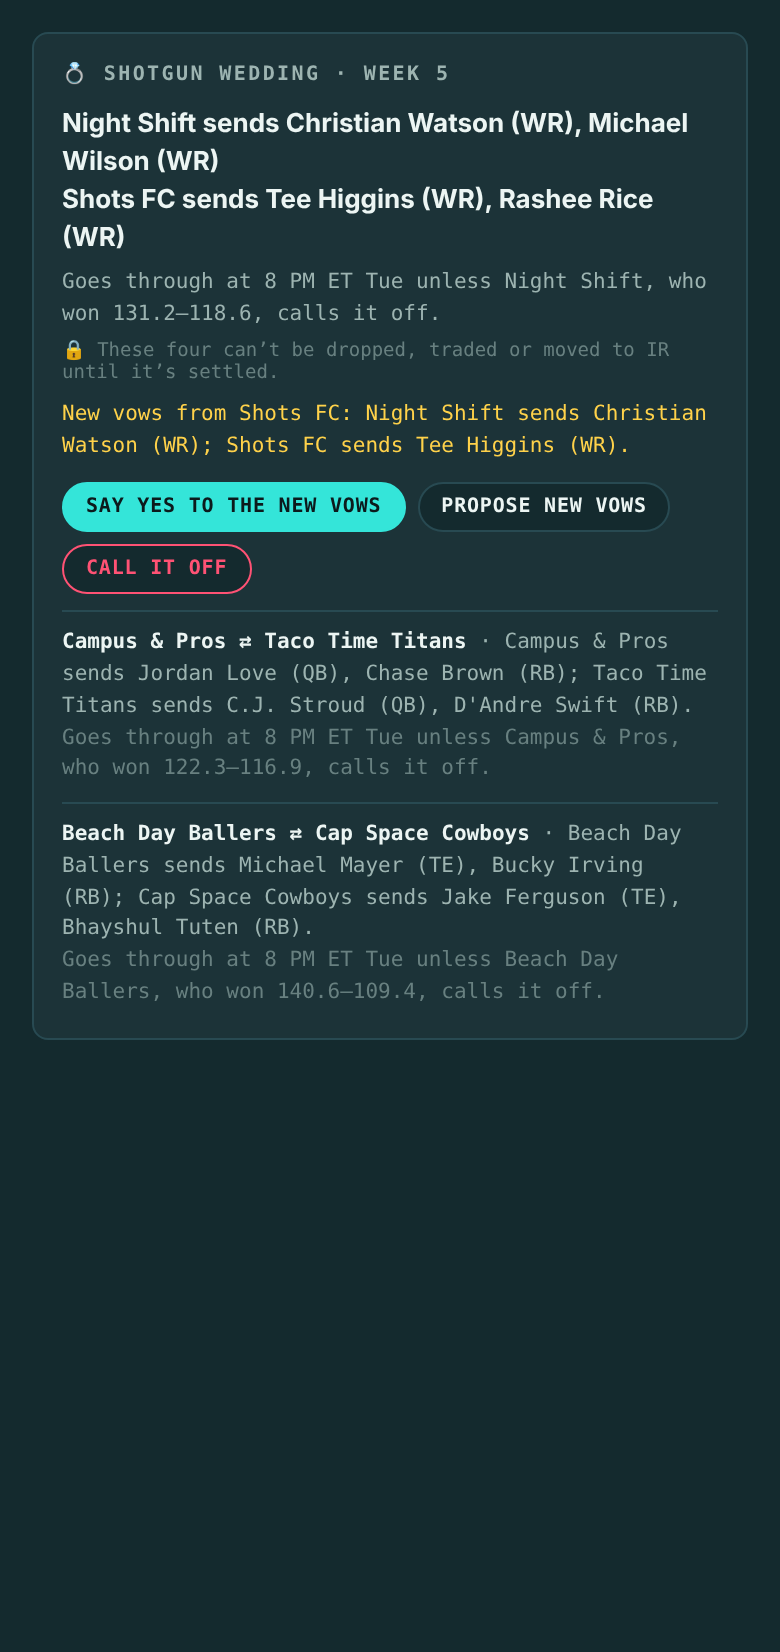
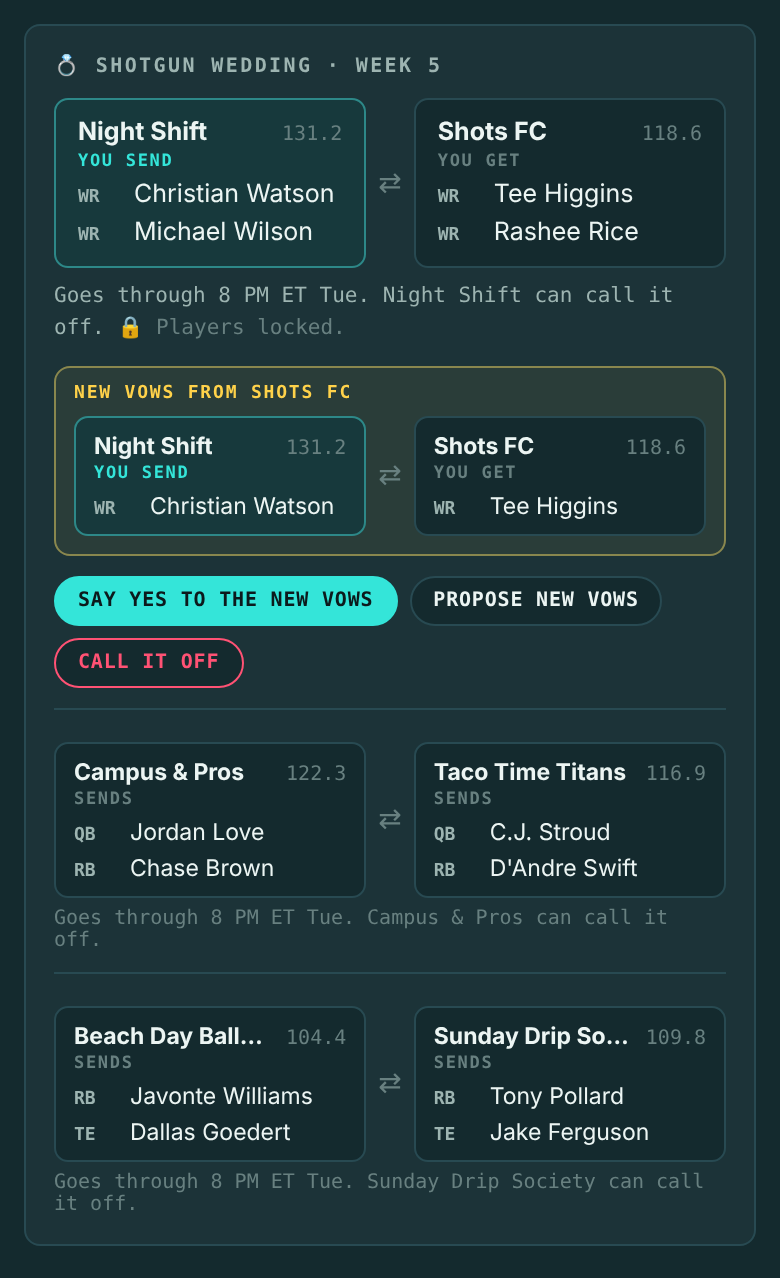
v0.656.6: the roster builder fits a phone; the front page's pictures catch up (#1182)
* v0.656.6: the front page shows the new Shotgun Wedding trade box

Reshot public/brand/funnel/mode-shotgun.png from the current card (fixture
data, mark-free); the version bump busts the cached image.

Claude-Session: https://claude.ai/code/session_016CCQxv6Dhk2rrkPAiCqMgj

* v0.656.6: the roster builder lines up and fits a phone

The spot row is a CSS grid: one line on wide screens, two on phones, so the
columns line up on every row and nothing runs off the edge. The front
page's roster-builder screenshot is reshot from it.

Claude-Session: https://claude.ai/code/session_016CCQxv6Dhk2rrkPAiCqMgj

---------

diff --git a/src/screens/CommishDash.tsx b/src/screens/CommishDash.tsx
@@ -73,10 +73,10 @@ function PosMultiSelect({ options, value, onChange, disabled, chip }: {
   const toggle = (p: string) => onChange(value.includes(p) ? ordered.filter((q) => q !== p) : options.filter((q) => q === p || value.includes(q)));
   return (
     // ONE WIDTH FOR EVERY ROW (v0.656.4, founder: "have all the form columns
-    // align in the roster builder"): the button no longer grows with its
-    // text, so the name, BB, ⛳ and 🔎 columns line up down the list. A long
+    // align in the roster builder"): the button fills its grid column (the
+    // row's .spot-row grid sets it) rather than growing with its text. A long
     // set ellipses; the tooltip and the open list carry all of it.
-    <div ref={ref} style={{ position: 'relative', flex: '0 0 150px', width: 150 }}>
+    <div ref={ref} className="sr-pos" style={{ position: 'relative', minWidth: 0 }}>
       <button type="button" disabled={disabled} onClick={() => setOpen((o) => !o)} className="mono"
         title={`${ordered.length ? ordered.join(' · ') : 'no positions yet'} — click to change`}
         style={{ fontSize: 11, fontWeight: 700, letterSpacing: '0.04em', borderRadius: RADIUS, padding: '3px 8px', cursor: 'pointer', whiteSpace: 'nowrap',
@@ -909,8 +909,8 @@ export function LeagueSettings({ leagueId, view }: { leagueId: string; view: 'mo
           </div>
           <div style={{ display: 'flex', flexDirection: 'column', gap: 5, marginTop: 6 }}>
             {spots.map((sp, i) => (
-              <div key={i} data-spot={i}
-                style={{ display: 'flex', alignItems: 'center', gap: 6, flexWrap: fltOpen === i ? 'wrap' : 'nowrap', border: `1px solid ${drag === i ? 'var(--you)' : 'var(--bd)'}`, borderRadius: RADIUS, padding: '5px 8px', opacity: drag === i ? 0.55 : 1, background: drag === i ? 'var(--bg)' : undefined }}>
+              <div key={i} data-spot={i} className="spot-row"
+                style={{ border: `1px solid ${drag === i ? 'var(--you)' : 'var(--bd)'}`, borderRadius: RADIUS, padding: '5px 8px', opacity: drag === i ? 0.55 : 1, background: drag === i ? 'var(--bg)' : undefined }}>
                 {/* DRAG HANDLE, ON POINTER EVENTS (v0.297.1). It was HTML5 drag
                     — `draggable` + dragstart/drop — which a touch screen never
                     fires: the finger scrolled the page instead, and once the
@@ -943,53 +943,53 @@ export function LeagueSettings({ leagueId, view }: { leagueId: string; view: 'mo
                     if (e.key === 'ArrowUp') { e.preventDefault(); moveSpot(i, i - 1); }
                     if (e.key === 'ArrowDown') { e.preventDefault(); moveSpot(i, i + 1); }
                   }}
-                  className="mono" aria-label={`reorder spot ${i + 1}`}
+                  className="mono sr-grip" aria-label={`reorder spot ${i + 1}`}
                   style={{ background: 'none', border: 'none', color: drag === i ? 'var(--you)' : 'var(--faint)', cursor: busy ? 'default' : 'grab', fontSize: 15, padding: '2px 4px', lineHeight: 1, touchAction: 'none' }}>⠿</button>
-                <span className="mono" style={{ fontSize: 11, fontWeight: 700, color: 'var(--dim)', width: 22 }}>{i + 1}</span>
+                <span className="mono sr-num" style={{ fontSize: 11, fontWeight: 700, color: 'var(--dim)' }}>{i + 1}</span>
                 {/* ONE DROPDOWN, NOT A ROW OF CHIPS (v0.554.0, founder: "change the
                     position selection in roster construction so that it stays on
                     one line"): the header names what the spot accepts; the list
                     underneath ticks positions on and off. */}
                 <PosMultiSelect options={builderPos} value={sp.pos} disabled={busy} chip={posChip}
                   onChange={(pos) => { setSpots((cur) => cur!.map((x, j) => j !== i ? x : { ...x, pos })); setSpotsDirty(true); }} />
-                <input value={sp.label}
+                <input className="mono sr-label" value={sp.label}
                   onChange={(e) => { setSpots((cur) => cur!.map((x, j) => j !== i ? x : { ...x, label: e.target.value.slice(0, 24) })); setSpotsDirty(true); }}
                   placeholder={slotSpecLabel(sp.pos)} maxLength={24}
                   title="name this spot — e.g. Only NFC Players. Naming it doesn't change who may fill it; the chips and 🔎 filter do that."
-                  className="mono" style={{ fontFamily: 'inherit', fontSize: 11, padding: '3px 6px', background: 'var(--bg)', color: sp.label ? 'var(--text)' : 'var(--faint)', border: `1px solid ${sp.label ? 'var(--bd)' : 'transparent'}`, borderRadius: RADIUS, flex: 1, minWidth: 90, textAlign: 'right' }} />
-                <button disabled={busy} title="Best ball: this spot fills itself with the top scorer"
+                  style={{ fontFamily: 'inherit', fontSize: 11, padding: '3px 6px', background: 'var(--bg)', color: sp.label ? 'var(--text)' : 'var(--faint)', border: `1px solid ${sp.label ? 'var(--bd)' : 'transparent'}`, borderRadius: RADIUS, width: '100%', minWidth: 0, boxSizing: 'border-box', textAlign: 'right' }} />
+                <button className="mono sr-bb" disabled={busy} title="Best ball: this spot fills itself with the top scorer"
                   onClick={() => { setSpots((cur) => cur!.map((x, j) => j !== i ? x : { ...x, bb: !x.bb })); setSpotsDirty(true); }}
-                  className="mono" style={{ ...pill(!!sp.bb), padding: '3px 8px', fontSize: 11, flex: 'none' }}>🎯 BB</button>
+                  style={{ ...pill(!!sp.bb), padding: '3px 8px', fontSize: 11 }}>🎯 BB</button>
                 {/* LEVEL (0372): in a mixed league a spot takes either, NFL
                     players only, or college players only. Cycles ANY → NFL → CFB. */}
                 {mixed && (
-                  <button disabled={busy} title="Who may stand here in a mixed league: anyone, NFL players only, or college players only"
+                  <button className="mono sr-lvl" disabled={busy} title="Who may stand here in a mixed league: anyone, NFL players only, or college players only"
                     onClick={() => { setSpots((cur) => cur!.map((x, j) => j !== i ? x : { ...x, level: !x.level ? 'nfl' : x.level === 'nfl' ? 'college' : undefined })); setSpotsDirty(true); }}
-                    className="mono" style={{ ...pill(!!sp.level), padding: '3px 8px', fontSize: 11, width: 66, flex: 'none' }}>{sp.level === 'college' ? '🎓 CFB' : sp.level === 'nfl' ? '🏈 NFL' : 'ANY'}</button>
+                    style={{ ...pill(!!sp.level), padding: '3px 8px', fontSize: 11, width: 66 }}>{sp.level === 'college' ? '🎓 CFB' : sp.level === 'nfl' ? '🏈 NFL' : 'ANY'}</button>
                 )}
                 {/* THE ZERO-FILL RULE (v0.303.0): what this spot banks when it
                     is empty, or when whoever stands in it scores nothing. On
                     best-ball spots too since 0304 (v0.430.2): the fill seats a
                     body, but a body can still score nothing, and the fill ranks
                     by what the spot banks — a bye is worth the fill. */}
-                <span title={sp.bb ? 'ZERO-FILL: points this spot banks if its player scores nothing. The fill ranks by what the spot banks, so a bye is worth this number.'
+                <span className="sr-zero" title={sp.bb ? 'ZERO-FILL: points this spot banks if its player scores nothing. The fill ranks by what the spot banks, so a bye is worth this number.'
                   : 'ZERO-FILL: points this spot banks if it is empty, or if its player scores nothing. Blank = off.'}
-                  style={{ display: 'inline-flex', alignItems: 'center', gap: 3, flex: 'none' }}>
+                  style={{ display: 'inline-flex', alignItems: 'center', gap: 3 }}>
                   <span className="mono" style={{ fontSize: 10.5, color: 'var(--faint)' }}>⛳</span>
                   <input value={sp.zero} disabled={busy} inputMode="numeric" placeholder="—" maxLength={3}
                     onChange={(e) => { const v = e.target.value.replace(/[^0-9]/g, '').slice(0, 3); setSpots((cur) => cur!.map((x, j) => j !== i ? x : { ...x, zero: v })); setSpotsDirty(true); }}
                     className="mono" style={{ fontFamily: 'inherit', fontSize: 11, width: 34, textAlign: 'center', padding: '3px 4px', background: 'var(--bg)', color: sp.zero ? 'var(--warn)' : 'var(--faint)', border: `1px solid ${sp.zero ? 'var(--warn)' : 'var(--bd)'}`, borderRadius: RADIUS }} />
                 </span>
-                <button disabled={busy} title="Per-spot player filter: only these teams / this tenure window / these flagged players may fill the spot"
+                <button className="mono sr-flt" disabled={busy} title="Per-spot player filter: only these teams / this tenure window / these flagged players may fill the spot"
                   onClick={() => setFltOpen((cur) => cur === i ? null : i)}
-                  className="mono" style={{ ...pill(spotHasFlt(sp)), padding: '3px 8px', fontSize: 11 }}>🔎</button>
-                <button disabled={busy || spots.length <= 1} title="Remove this spot"
+                  style={{ ...pill(spotHasFlt(sp)), padding: '3px 8px', fontSize: 11 }}>🔎</button>
+                <button className="mono sr-x" disabled={busy || spots.length <= 1} title="Remove this spot"
                   onClick={() => { setSpots((cur) => cur!.filter((_, j) => j !== i)); setSpotsDirty(true); }}
-                  className="mono" style={{ background: 'none', border: 'none', cursor: 'pointer', color: 'var(--opp)', fontSize: 13.5, padding: '0 3px' }}>✕</button>
+                  style={{ background: 'none', border: 'none', cursor: 'pointer', color: 'var(--opp)', fontSize: 13.5, padding: '0 3px' }}>✕</button>
                 {/* PER-SLOT FILTER (0172): who may FILL this spot — teams and/or a
                     tenure window (0 = rookie). Never shrinks the draft pool. */}
                 {fltOpen === i && (
-                  <div style={{ flexBasis: '100%', display: 'flex', alignItems: 'center', gap: 6, flexWrap: 'wrap', marginTop: 4 }}>
+                  <div className="sr-filter" style={{ display: 'flex', alignItems: 'center', gap: 6, flexWrap: 'wrap', marginTop: 4 }}>
                     <input value={sp.fTeams} onChange={(e) => { setSpots((cur) => cur!.map((x, j) => j !== i ? x : { ...x, fTeams: e.target.value })); setSpotsDirty(true); }}
                       placeholder="teams (e.g. KC, SF) — empty = all"
                       className="mono" style={{ fontFamily: 'inherit', fontSize: 12, padding: '4px 6px', background: 'var(--bg)', color: 'var(--text)', border: '1px solid var(--bd)', borderRadius: RADIUS, flex: '1 1 160px' }} />

diff --git a/src/styles.css b/src/styles.css
@@ -62,3 +62,19 @@ a { color: inherit; }
 }
 /* v0.638.1: a chip strip scrolls sideways and shows no bar — its › cap says there is more. */
 .chip-strip::-webkit-scrollbar { display: none; }
+/* THE ROSTER BUILDER'S ROW (v0.656.6, founder: "fix the line up of the
+   columns"): a grid, so every row shares one set of columns whatever its
+   position list, name or row number says. Wide: one line. Phone: the
+   positions on top, the name and the switches under them — one line was
+   ~100px wider than a phone and pushed ⛳ / 🔎 / ✕ off the edge. */
+.spot-row { display: grid; align-items: center; column-gap: 6px; row-gap: 4px;
+  grid-template-columns: auto 22px 150px minmax(0, 1fr) auto auto auto auto auto;
+  grid-template-areas: "grip num pos label bb lvl zero flt x" "filter filter filter filter filter filter filter filter filter"; }
+.spot-row > .sr-grip { grid-area: grip; } .spot-row > .sr-num { grid-area: num; } .spot-row > .sr-pos { grid-area: pos; }
+.spot-row > .sr-label { grid-area: label; } .spot-row > .sr-bb { grid-area: bb; } .spot-row > .sr-lvl { grid-area: lvl; }
+.spot-row > .sr-zero { grid-area: zero; } .spot-row > .sr-flt { grid-area: flt; } .spot-row > .sr-x { grid-area: x; }
+.spot-row > .sr-filter { grid-area: filter; }
+@media (max-width: 560px) {
+  .spot-row { grid-template-columns: auto 22px minmax(0, 1fr) auto auto auto auto;
+    grid-template-areas: "grip num pos pos pos pos x" ". . label lvl bb zero flt" "filter filter filter filter filter filter filter"; }
+}

diff --git a/packages/core/src/version.ts b/packages/core/src/version.ts
@@ -2,7 +2,7 @@
 // Versioning: 3-part semver, pre-1.0. Bump patch per deploy (0.10.1, 0.10.2…),
 // minor for bigger features (0.11, 0.12…). Segments aren't capped at 9, so 1.0
 // is a deliberate choice, not an automatic rollover.
-export const APP_VERSION = 'v0.656.5';
+export const APP_VERSION = 'v0.656.6';
 
 // Stat data + 2025 NFL play-by-play powering this game comes from Stathead.
 export const DATA_SOURCE = { name: 'Stathead', url: 'https://stathead.app' };

diff --git a/STATUS.md b/STATUS.md
@@ -22,6 +22,28 @@ Near-daily (git shows daily bursts; season launch Sep 9 is the forcing function)
 
 ## Last worked (superseded entries below)
 
+### v0.656.6 — the roster builder fits a phone; the front page's pictures catch up
+
+> - The roster builder lines up on every row and fits a phone: positions on top, the name and switches underneath.
+> - The front page's Shotgun Wedding and roster builder pictures show the new layouts.
+
+Founder, after v0.656.4 shipped: "did we get rid of the wall of text on this
+and reformat the trade box view?" The card had changed; the landing's
+`public/brand/funnel/mode-shotgun.png` was still the v0.654.2 shot of the old
+sentence layout. Reshot at 390px @2x in the neon theme from the real
+ShotgunWeddingCard, with liveApi aliased to fixture weddings (your 2-for-2
+with a counter, plus two of the league's others). The version bump is what
+busts the cached image (the landing puts APP_VERSION on each screen's URL).
+
+Founder, same day, on the roster-builder screen: "fix the line up of the
+columns". v0.656.4 fixed the width of the position dropdown, but at phone
+width each row was still ~100px too wide (⛳ / 🔎 / ✕ off the edge), and the
+squeezed rows let a two-digit row number push the columns. The row is now a
+CSS grid (`.spot-row` in styles.css, a class per cell): one line from 561px
+up, two lines under it. Checked in Chromium at 390 and 700px with 14 spots
+(no row overflows; the 🔎 panel opens full width under its row), and
+`positions-roster.png` reshot from it.
+
 ### v0.656.5 — the FAQ, rewritten
 
 > - The FAQ is rewritten: plainer answers, the full league platform first and Drip as one game in it, and a note on who builds Drip Fantasy.
